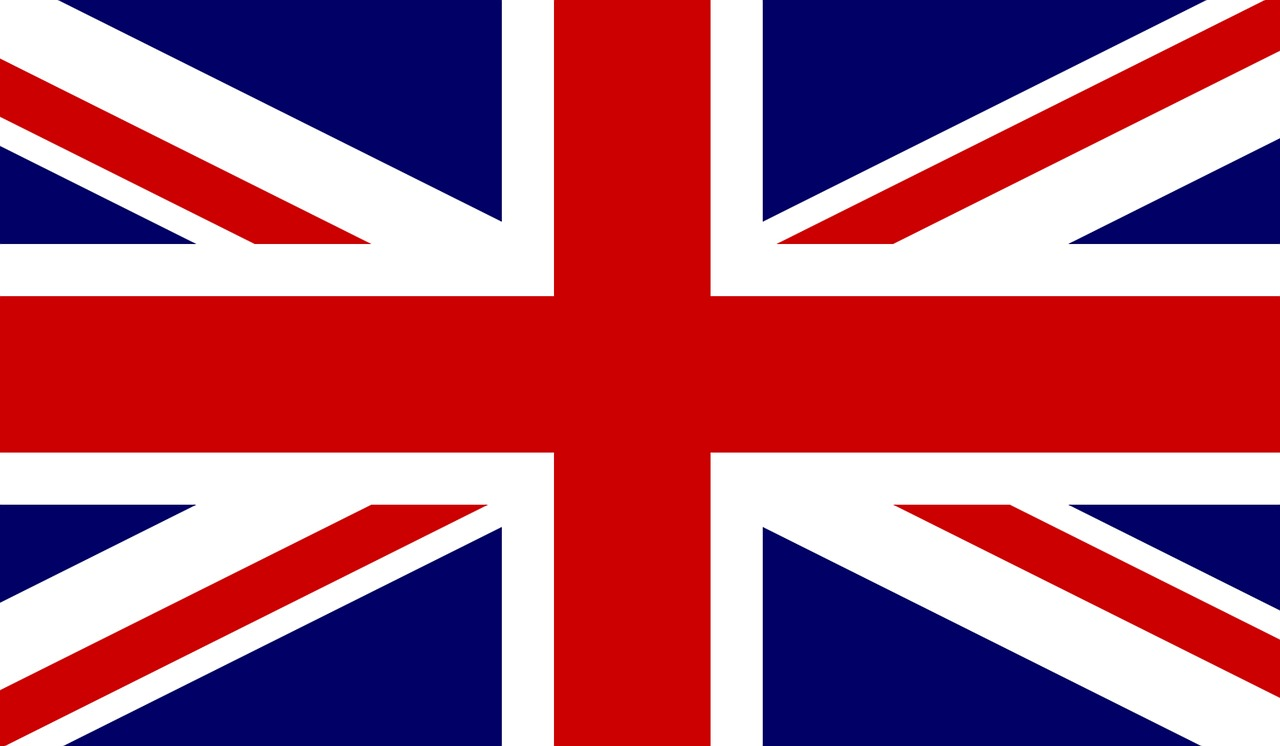
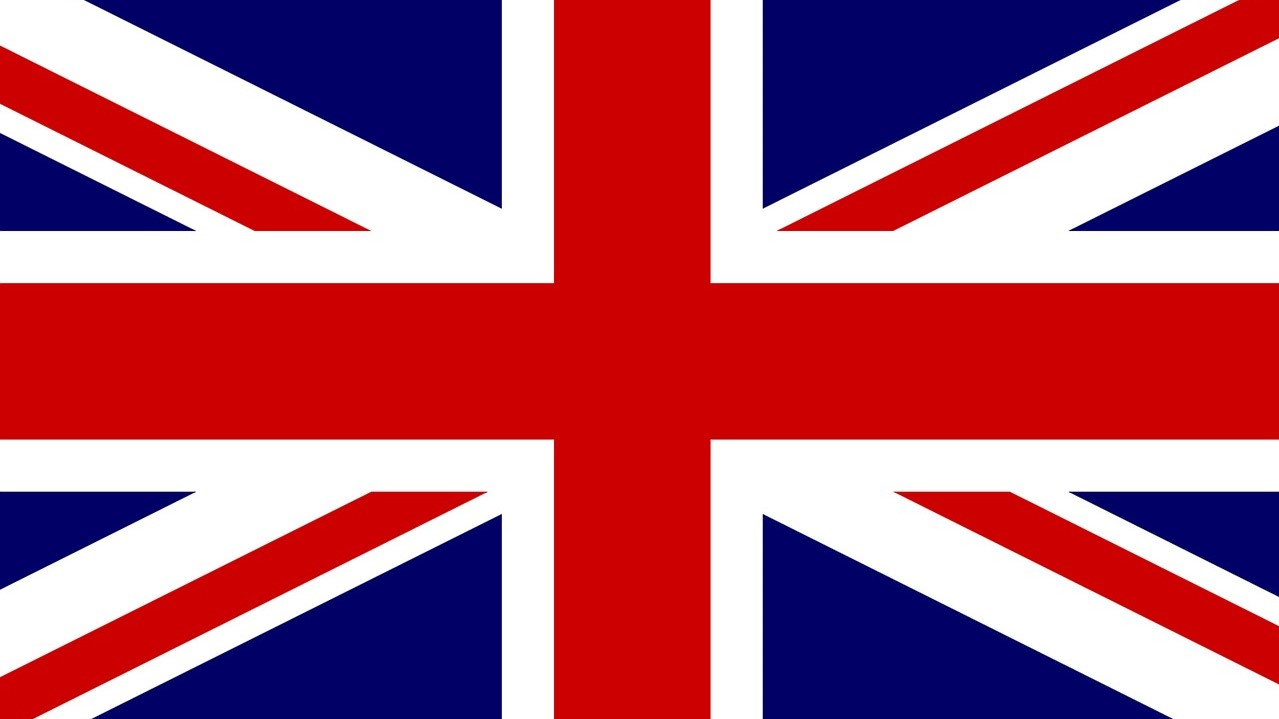
Frontend main menu upgrade

diff --git a/puissance4plus/static/css/main_menu.css b/puissance4plus/static/css/main_menu.css
@@ -117,11 +117,11 @@ menu[data-menu="settings"] section.lang {
 menu[data-menu="settings"] section.lang label {
     text-align: right;
     display: inline-block;
-    margin-left: 1em;
+    margin-left: 2em;
 }
 menu[data-menu="settings"] section.lang img {
     display: block;
-    height: 2em;
+    height: 3em;
     cursor: pointer;
     box-shadow: var(--shadow);
 }
